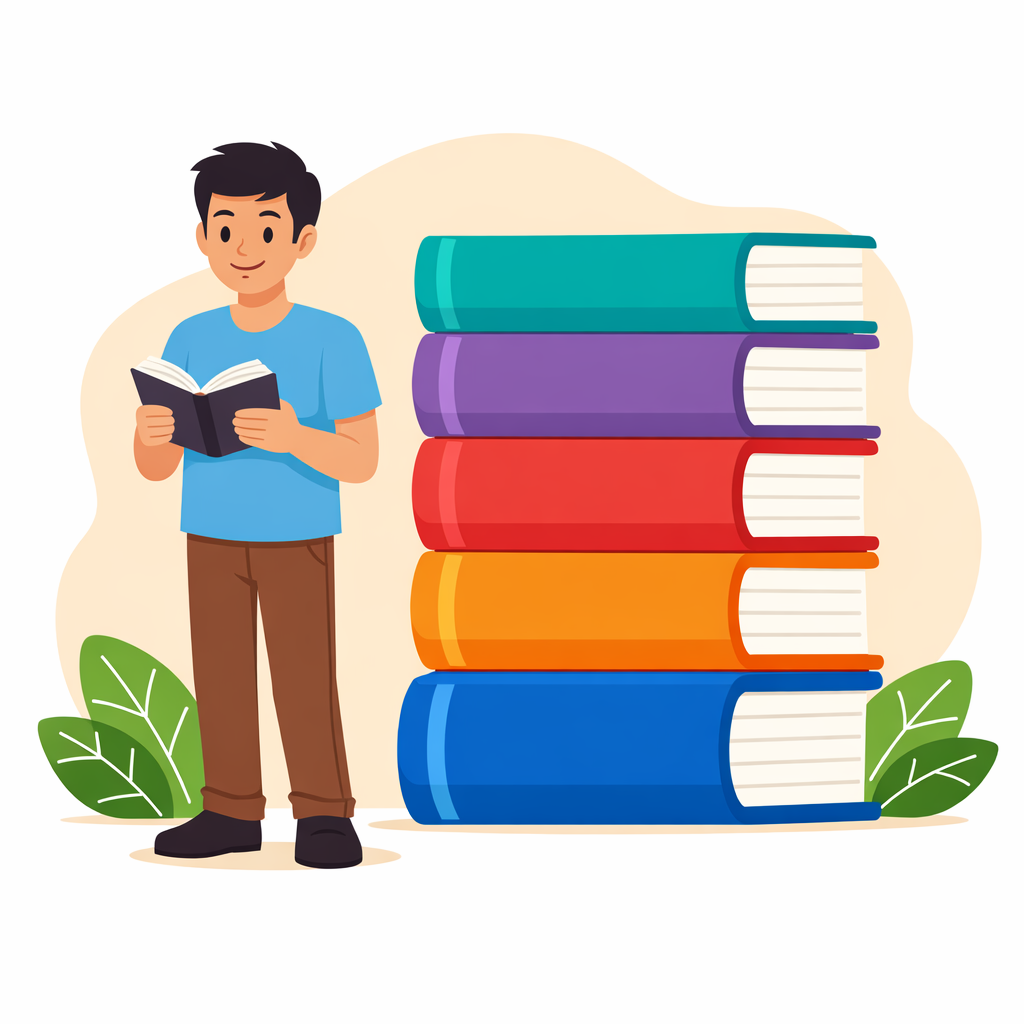
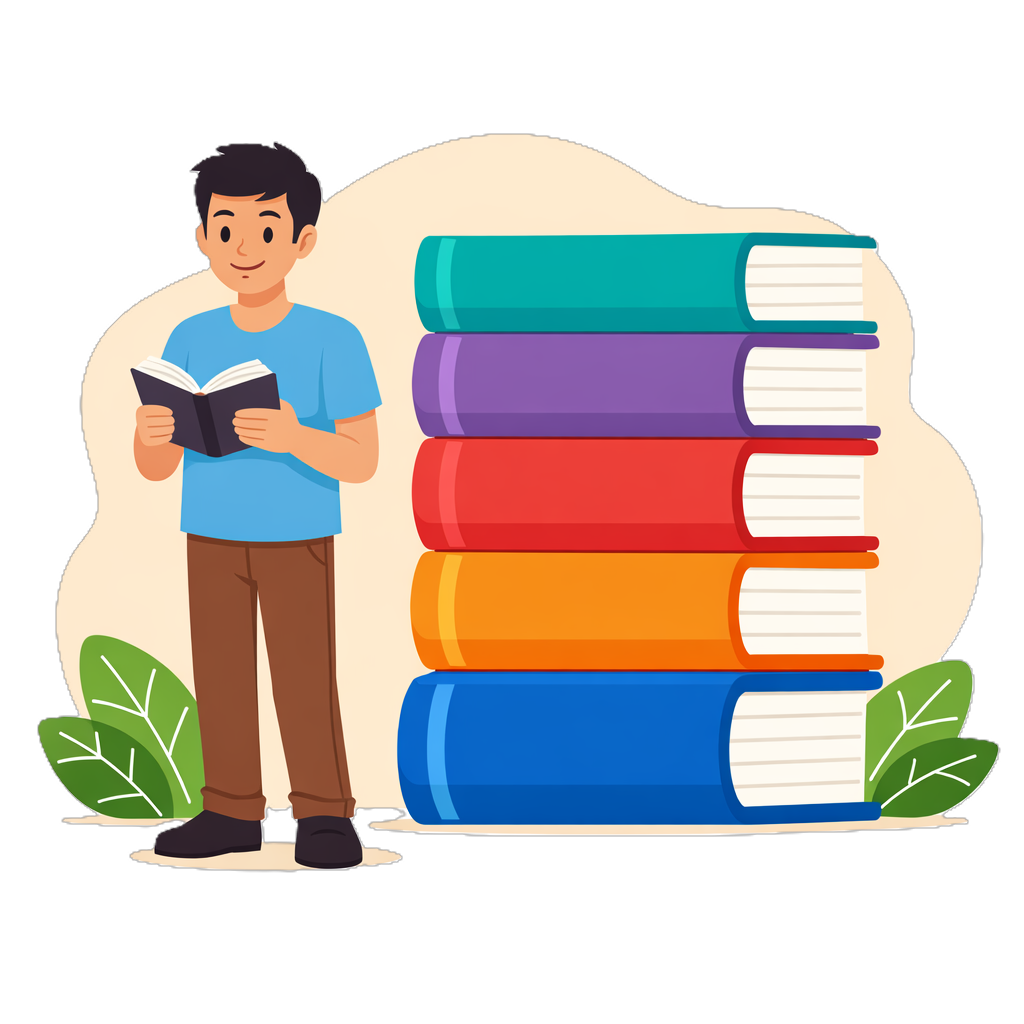
finalização do projeto, adicionando ultimos toques de css

diff --git a/inDex.html b/inDex.html
@@ -35,9 +35,15 @@
                 <li>O Caibalion</li>
             </ul>
     </div>
+    <!--  -->
+    <!-- png simples pro background -->
     <div class="card">
-        <img src="./src/Estante de livros colorida e vibrante.png" alt="Estante de livros">
+        <img src="./src/Estante.png">
     </div>
+    <div id="card">
+        <img src="./src/Plato e Aristóteles na escola de Atenas.png" alt="">
+    </div>
+    <!--  -->
     <!-- Source do JavaScript -->
     <script src="./src/app.js"></script>
 </body>  

diff --git a/src/styles.css b/src/styles.css
@@ -159,9 +159,20 @@ input::placeholder{
 
 /* card */
 .card{
+    height: 400px;
     position: absolute;
-    top: 250px;
-    left: -50px;
+    top: 550px;
+    left:0;
     overflow: hidden;
     opacity: 0.3;
 }
+#card{
+    /* width: 100px; */
+    top: 200px;
+    left: 60%;
+    transform: translateX(-10%);
+    position: absolute;
+    opacity: 0.3;
+    z-index: -1;
+}
+
